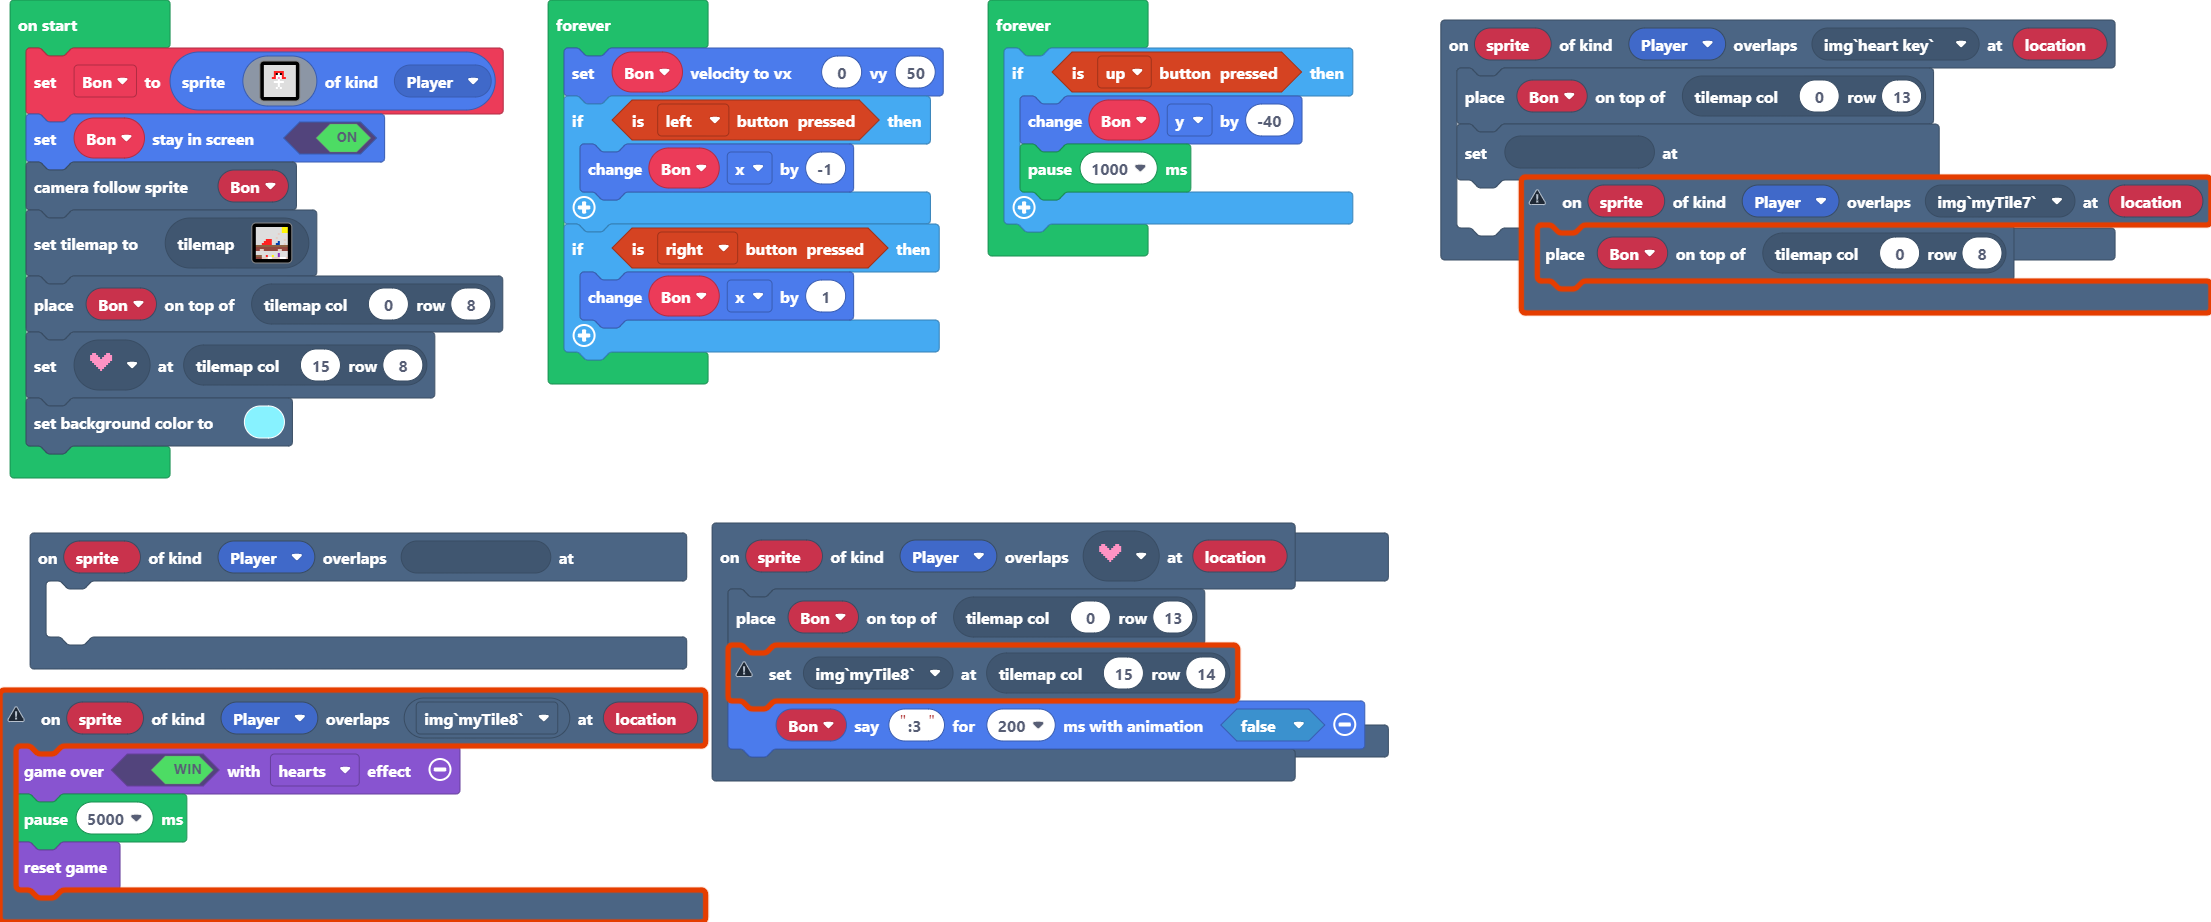
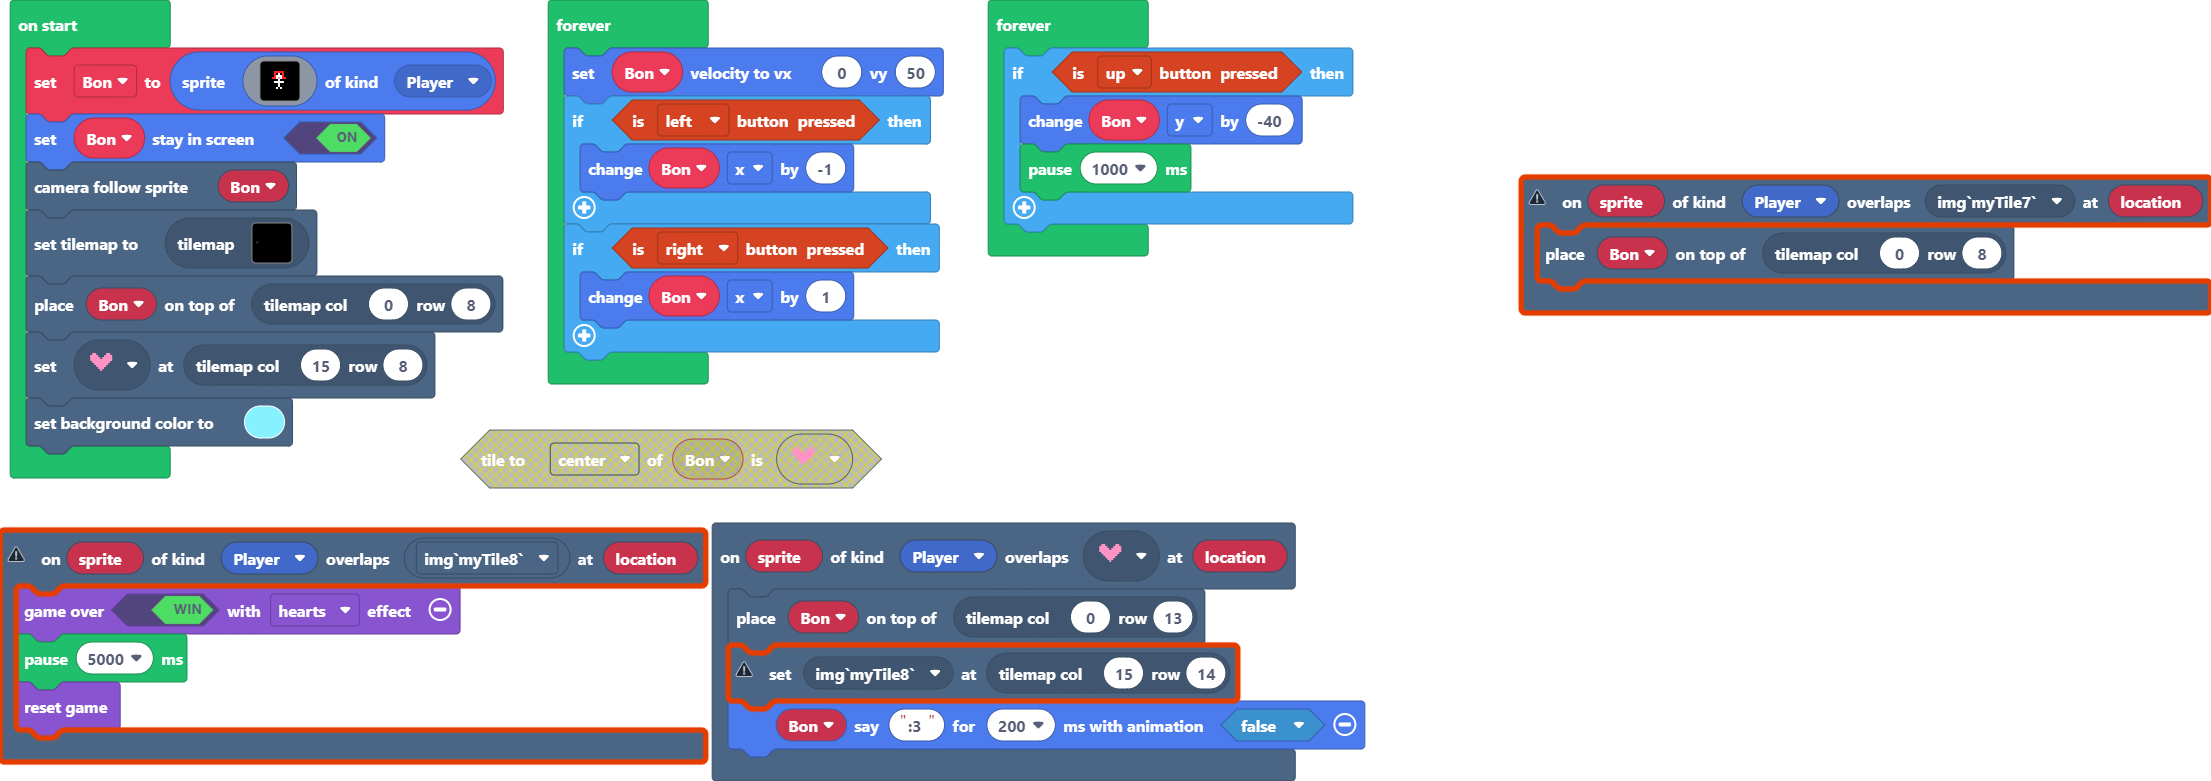
Update pxt.json, main.blocks, tilemap.g.jres, tilemap.g.ts

diff --git a/tilemap.g.ts b/tilemap.g.ts
@@ -129,24 +129,24 @@ namespace myTiles {
 . . . . . . . . . . . . . . . . 
 `, [myTiles.transparency16], TileScale.Sixteen);
             case "level102":
[1 lines of base64/hex data omitted]
-. . . . . . . . . 2 2 2 2 2 2 2 
-. . . . . . . . . 2 2 . . . . 2 
-. . . . . . . . . 2 . . . . . 2 
-. . . . . . . . . 2 . 2 2 2 . 2 
-. . . . . . . . . 2 . . 2 2 . 2 
-. . . . . . . . . 2 2 . 2 . . 2 
-. . . . . 2 2 2 . 2 . . 2 . 2 2 
-. . . . 2 2 2 2 . . . 2 . . . . 
-. . . 2 2 2 2 2 . . 2 2 . . 2 . 
-2 2 2 2 2 2 2 2 2 2 2 2 2 2 2 2 
-. . . . . . . 2 2 2 2 2 . . . . 
-2 2 2 2 2 2 2 2 2 2 2 2 2 2 2 2 
-. . . . . . . . . . . . . . . . 
-. . . . . . . . . . . 2 . . . . 
-2 2 2 . . 2 . . 2 . . 2 . . . . 
-. . . 2 2 2 . . 2 2 2 2 . . . 2 
-`, [myTiles.transparency16,myTiles.tile1,myTiles.tile2,myTiles.tile4,myTiles.tile5,myTiles.tile6,myTiles.tile8,myTiles.tile9,myTiles.tile10,myTiles.tile11,myTiles.tile12,myTiles.tile13,myTiles.tile14], TileScale.Sixteen);
[1 lines of base64/hex data omitted]
+.........2222222...............................................................................................................................................................................................................................................
+.........22....2...............................................................................................................................................................................................................................................
+.........2.....2...............................................................................................................................................................................................................................................
+.........2.222.2...............................................................................................................................................................................................................................................
+.........2..22.2...............................................................................................................................................................................................................................................
+.........22.2..2...............................................................................................................................................................................................................................................
+.....222.2..2.22...............................................................................................................................................................................................................................................
+....2222...2...................................................................................................................................................................................................................................................
+...22222..22..2................................................................................................................................................................................................................................................
+2222222222222222...............................................................................................................................................................................................................................................
+.......22222...................................................................................................................................................................................................................................................
+2222222222222222...............................................................................................................................................................................................................................................
+...............................................................................................................................................................................................................................................................
+...........2...................................................................................................................................................................................................................................................
+222..2..2..2...................................................................................................................................................................................................................................................
+...222..2222...2...............................................................................................................................................................................................................................................
+`, [myTiles.transparency16,myTiles.tile1,myTiles.tile2,myTiles.tile4,myTiles.tile5,myTiles.tile6,myTiles.tile8,myTiles.tile9,myTiles.tile10,myTiles.tile11,myTiles.tile12,myTiles.tile14], TileScale.Sixteen);
         }
         return null;
     })
